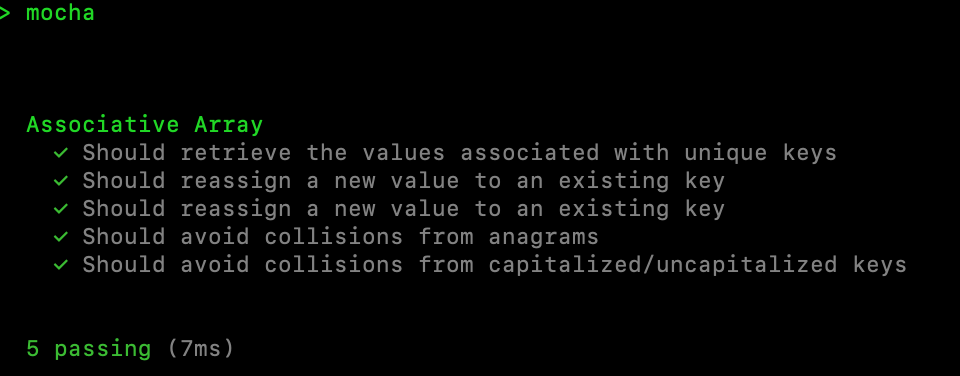
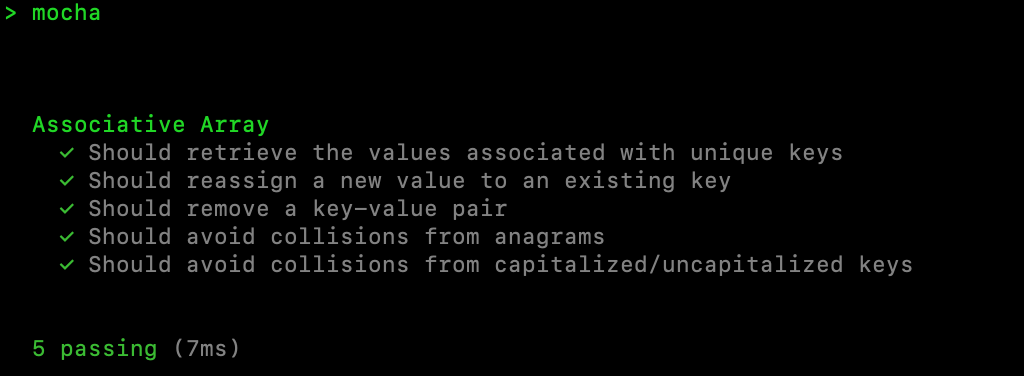
update associative array tests image

Changed region(s): [[0.0312, 0.2926, 0.9375, 0.7314], [0.0312, 0.9069, 0.25, 0.9654], [0.0, 0.0, 0.0938, 0.0585]]

diff --git a/test/test.js b/test/test.js
@@ -27,7 +27,7 @@ describe("Associative Array", () => {
         expect(cats.get("Bastet")).to.equal("Goddess"); // Reassigned
     });
     // Test the ability of the Associative Array to remove key-value pairs
-    it("Should reassign a new value to an existing key", () => {
+    it("Should remove a key-value pair", () => {
         cats.remove("Blueberry");
         expect(cats.get("Prismo")).to.equal("tortoise-shell"); // No change
         expect(cats.get("George")).to.equal("mackerel tabbie"); // No change
